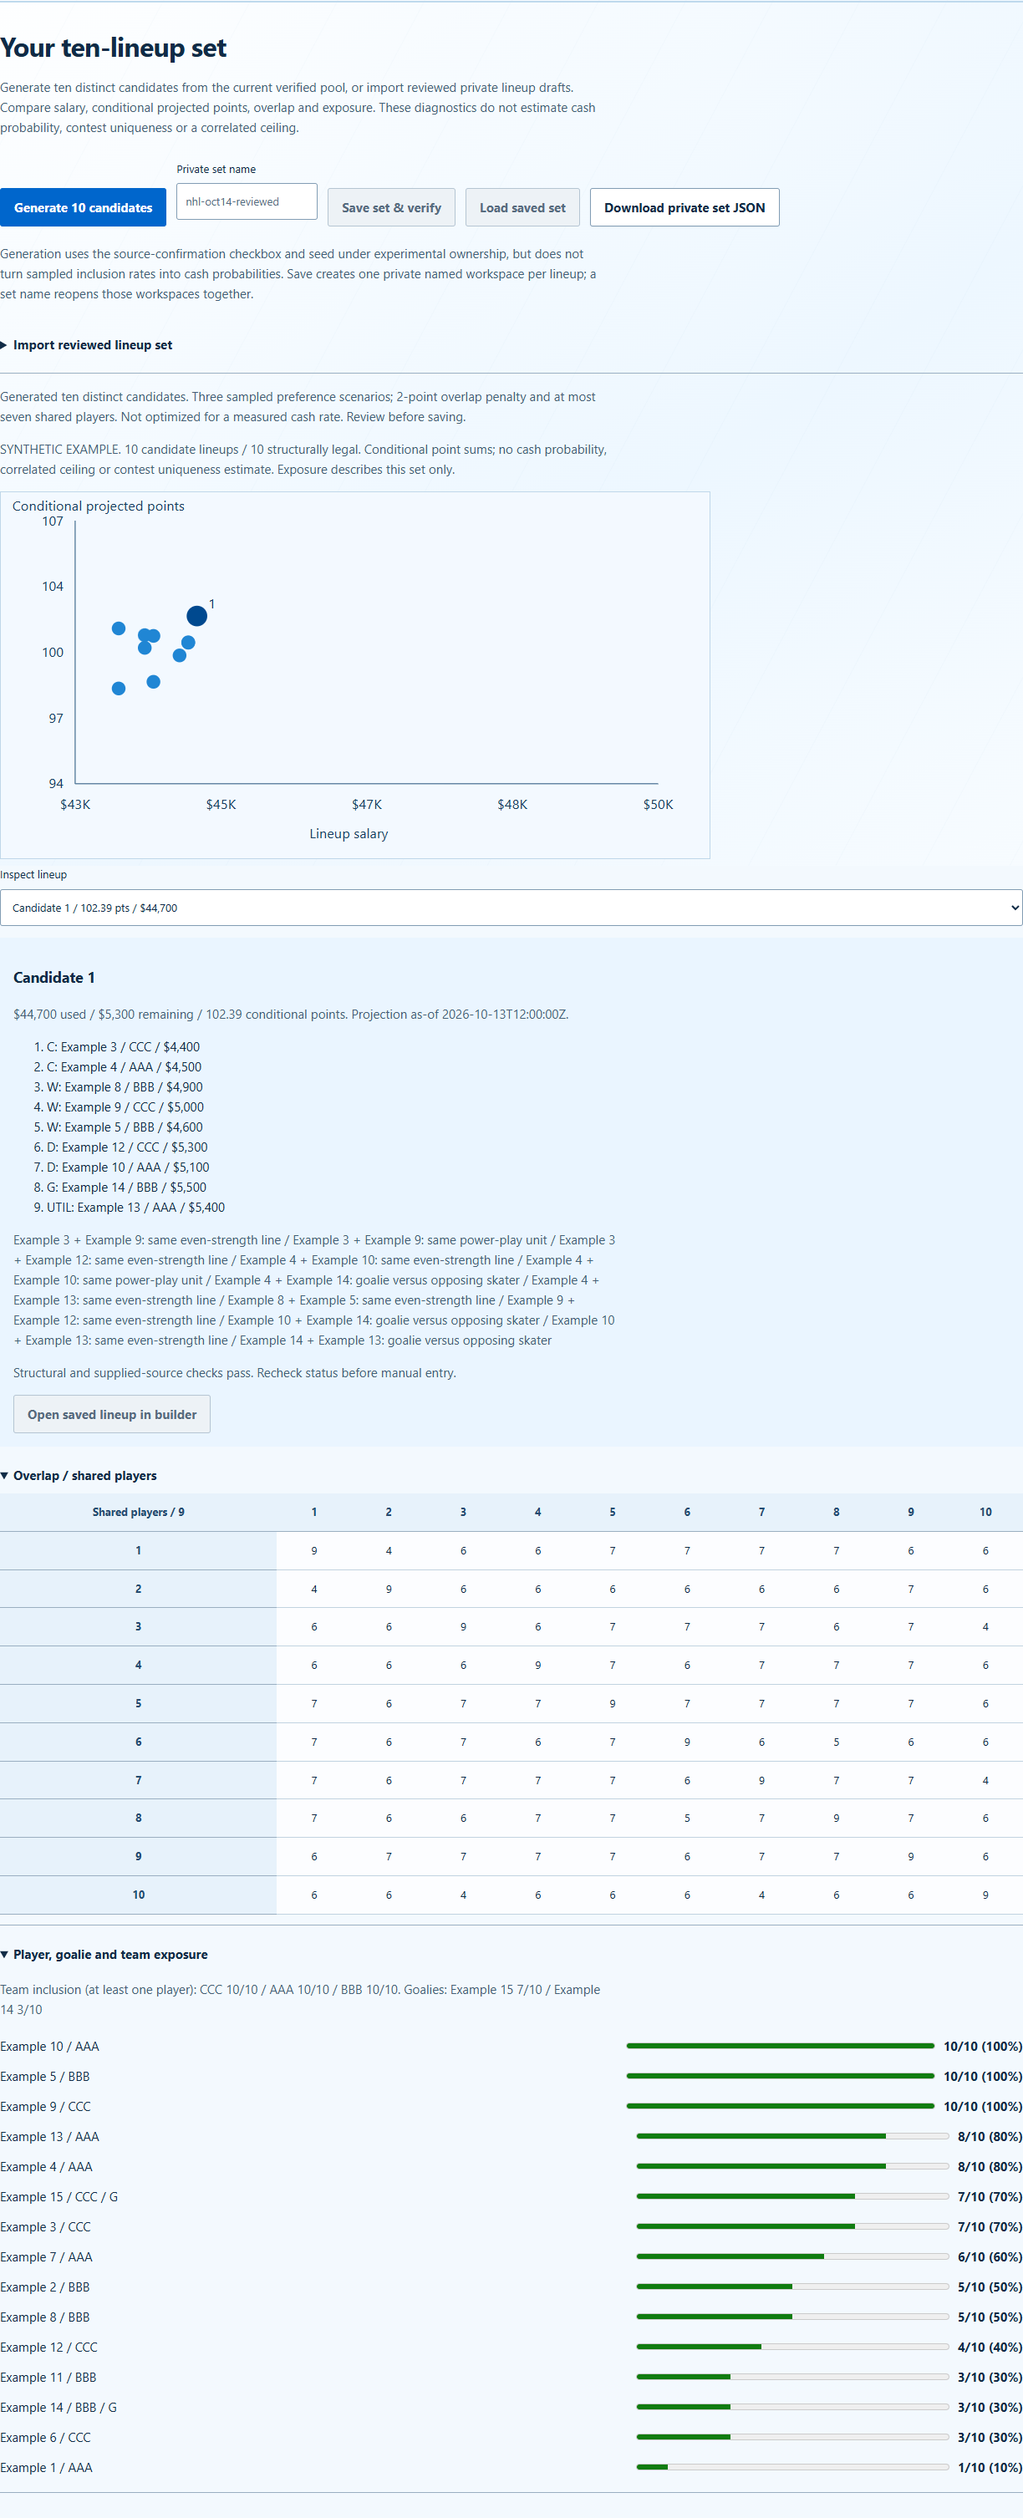
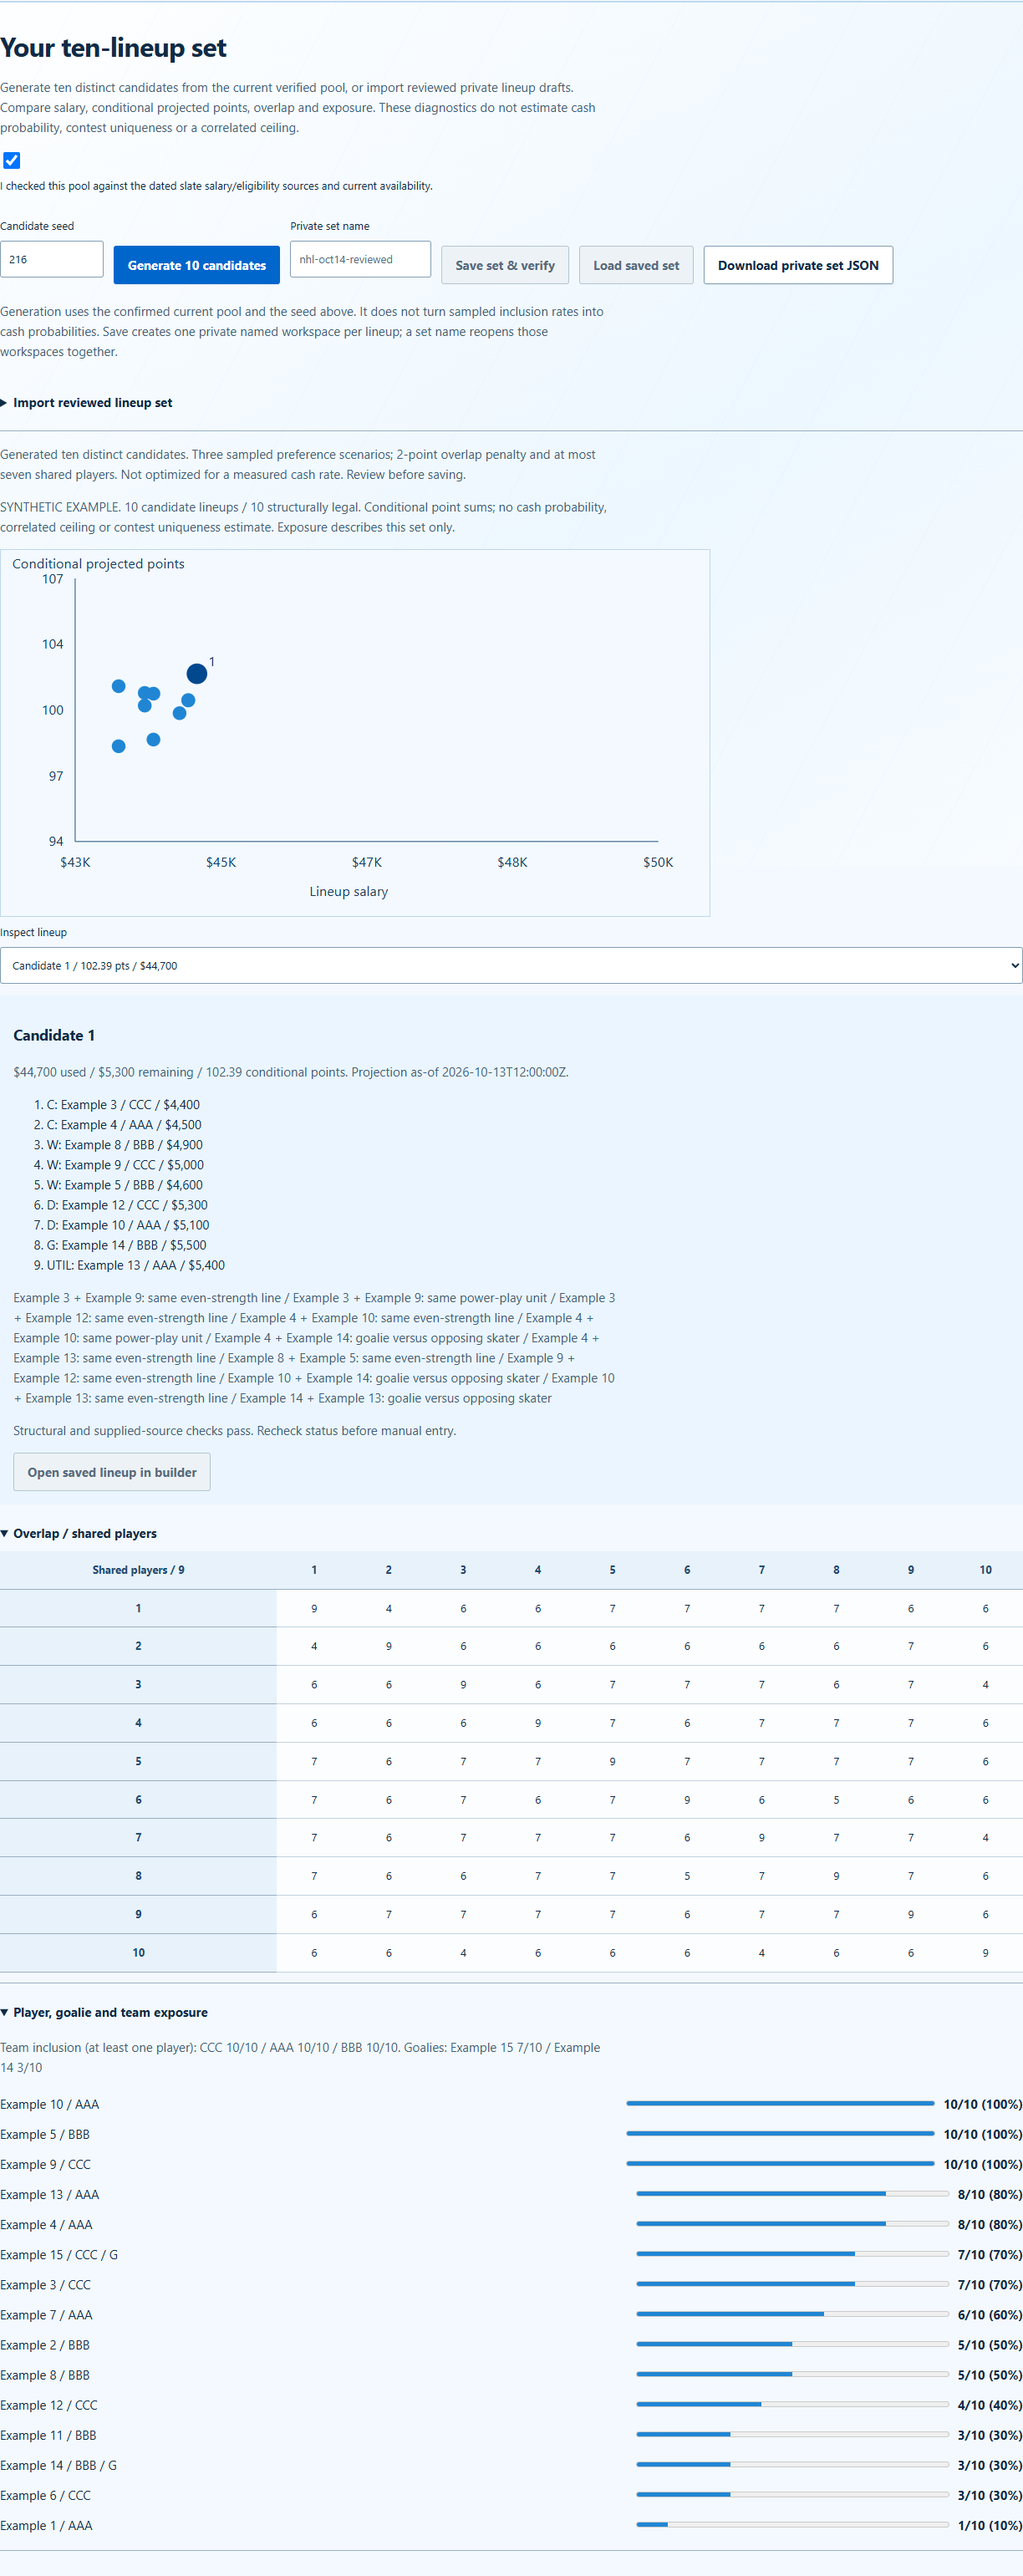
Keep lineup generation controls together

diff --git a/dfs-nhl.html b/dfs-nhl.html
@@ -16,6 +16,6 @@
 <details id="inspect" hidden><summary>Selected player: role, projection &amp; source</summary><h2 id="playerName"></h2><p id="playerMeta"></p><p id="flags" class="warning"></p><details><summary>Projection components &amp; provenance</summary><div id="components"></div><p id="events"></p><p id="historical"></p></details><details><summary>Role &amp; probability overrides</summary><p>Editable assumptions, not a live lineup feed. Blank means unknown. Probabilities are fractions from 0 to 1.</p><div class="formgrid" id="overrides"></div><div class="toolbar"><button id="apply">Apply timestamped override</button><button id="resetOverride" class="secondary">Clear override</button></div></details></details>
 <details><summary>Hockey structure &amp; exact-slate checks</summary><div id="checks"></div><p>Shared line/PP units describe dependence; they do not quantify correlation, win rate or contest fit. A goalie facing your skater creates opposing interests.</p></details>
 <details><summary>Import receipt &amp; scoring assumptions</summary><pre id="receipt"></pre><pre id="rules"></pre><p>The historical baseline averages each player's observed DK game scores and actual threshold bonuses over two completed seasons plus current pre-cutoff games. SD and variance describe game-to-game partial scores, not forecast certainty. Goalies use starts only, including pulled starts; wins and overtime losses are observed. Missing short-handed/shootout and goalie offensive components remain flagged. A manual skater minutes adjustment is a capped linear approximation; default is the unadjusted player mean.</p></details></div>
-<section id="lineupSet"><h2>Your ten-lineup set</h2><p>Generate ten distinct candidates from the current verified pool, or import reviewed private lineup drafts. Compare salary, conditional projected points, overlap and exposure. These diagnostics do not estimate cash probability, contest uniqueness or a correlated ceiling.</p><div class="toolbar"><button id="setGenerate">Generate 10 candidates</button><label>Private set name<input id="setName" maxlength="60" placeholder="nhl-oct14-reviewed"></label><button id="setSave">Save set &amp; verify</button><button id="setLoad" class="secondary">Load saved set</button><button id="setExport" class="secondary">Download private set JSON</button></div><p>Generation uses the source-confirmation checkbox and seed under experimental ownership, but does not turn sampled inclusion rates into cash probabilities. Save creates one private named workspace per lineup; a set name reopens those workspaces together.</p><details><summary>Import reviewed lineup set</summary><p>Paste version 1 JSON with a lineups array of {label, draft}. Each draft uses the documented NHL workspace schema. Import stays local until Save.</p><textarea id="setJson" rows="5" aria-label="Private NHL lineup set JSON" spellcheck="false"></textarea><button id="setImport" class="secondary">Review imported set</button></details><p id="setStatus" role="status">No lineup set loaded. Sign in to save or load private lineups.</p><div id="setResults" hidden><p id="setSummary"></p><svg id="setChart" viewBox="0 0 620 320" role="img" aria-label="Lineup salary versus conditional projected points"></svg><label>Inspect lineup<select id="setSelected"></select></label><div id="setDetail"></div><details open><summary>Overlap / shared players</summary><div class="scroll"><table id="setOverlap" aria-label="Shared players between candidate lineups"></table></div></details><details open><summary>Player, goalie and team exposure</summary><p id="setTeams"></p><div id="setExposure"></div></details></div></section><details id="projectionRecipe"><summary>Projection Recipe: repeat this analysis</summary><p id="recipeFreshness"></p><p>Run from the DataDawgs checkout with Node.js 22 or newer. This downloads the public source files and runs the tested generator locally; the browser does not execute a refresh.</p><pre><code>node tools/nhl-refresh.cjs --download --as-of 2026-10-13T20:21:00Z --output ../nhl-runs/2026-10-13</code></pre><p>Change the cutoff and use a new output folder for each run. The recipe uses 2025-2027 regular-season history, verified DK scoring, player-specific means and sample variance; goalies use starts. The identity seed is the bundled cohort, so new players and team changes need a reviewed seed update.</p><p>Outputs: projections.csv, model.json, audit.json, backtest.json, comparison.json and workbook-data.json. Raw inputs and their hashes are retained privately in the run folder. Comparison defaults to the bundled version; use <code>--previous path/to/model.json</code> for another run.</p><p>A completed refresh is not slate readiness. Salaries, DK eligibility, availability/start probabilities and missing scoring components still need review. No schedule, cloud save or deployment is triggered. <a href="docs/nhl-projection-recipe.md">Full recipe and checks</a>.</p></details>
+<section id="lineupSet"><h2>Your ten-lineup set</h2><p>Generate ten distinct candidates from the current verified pool, or import reviewed private lineup drafts. Compare salary, conditional projected points, overlap and exposure. These diagnostics do not estimate cash probability, contest uniqueness or a correlated ceiling.</p><label><input type="checkbox" id="setConfirm"> I checked this pool against the dated slate salary/eligibility sources and current availability.</label><div class="toolbar"><label>Candidate seed<input id="setSeed" type="number" min="0" max="4294967295" value="216"></label><button id="setGenerate">Generate 10 candidates</button><label>Private set name<input id="setName" maxlength="60" placeholder="nhl-oct14-reviewed"></label><button id="setSave">Save set &amp; verify</button><button id="setLoad" class="secondary">Load saved set</button><button id="setExport" class="secondary">Download private set JSON</button></div><p>Generation uses the confirmed current pool and the seed above. It does not turn sampled inclusion rates into cash probabilities. Save creates one private named workspace per lineup; a set name reopens those workspaces together.</p><details><summary>Import reviewed lineup set</summary><p>Paste version 1 JSON with a lineups array of {label, draft}. Each draft uses the documented NHL workspace schema. Import stays local until Save.</p><textarea id="setJson" rows="5" aria-label="Private NHL lineup set JSON" spellcheck="false"></textarea><button id="setImport" class="secondary">Review imported set</button></details><p id="setStatus" role="status">No lineup set loaded. Sign in to save or load private lineups.</p><div id="setResults" hidden><p id="setSummary"></p><svg id="setChart" viewBox="0 0 620 320" role="img" aria-label="Lineup salary versus conditional projected points"></svg><label>Inspect lineup<select id="setSelected"></select></label><div id="setDetail"></div><details open><summary>Overlap / shared players</summary><div class="scroll"><table id="setOverlap" aria-label="Shared players between candidate lineups"></table></div></details><details open><summary>Player, goalie and team exposure</summary><p id="setTeams"></p><div id="setExposure"></div></details></div></section><details id="projectionRecipe"><summary>Projection Recipe: repeat this analysis</summary><p id="recipeFreshness"></p><p>Run from the DataDawgs checkout with Node.js 22 or newer. This downloads the public source files and runs the tested generator locally; the browser does not execute a refresh.</p><pre><code>node tools/nhl-refresh.cjs --download --as-of 2026-10-13T20:21:00Z --output ../nhl-runs/2026-10-13</code></pre><p>Change the cutoff and use a new output folder for each run. The recipe uses 2025-2027 regular-season history, verified DK scoring, player-specific means and sample variance; goalies use starts. The identity seed is the bundled cohort, so new players and team changes need a reviewed seed update.</p><p>Outputs: projections.csv, model.json, audit.json, backtest.json, comparison.json and workbook-data.json. Raw inputs and their hashes are retained privately in the run folder. Comparison defaults to the bundled version; use <code>--previous path/to/model.json</code> for another run.</p><p>A completed refresh is not slate readiness. Salaries, DK eligibility, availability/start probabilities and missing scoring components still need review. No schedule, cloud save or deployment is triggered. <a href="docs/nhl-projection-recipe.md">Full recipe and checks</a>.</p></details>
 <section aria-label="Private saved lineups"><h2>Save &amp; reopen</h2><p><a href="signon.html?next=dfs-nhl.html">Sign in to Data Dawgs</a> with your existing account. Each name stores one lineup and its complete player pool. Use a new name for another lineup.</p><label>Lineup name<input id="workspaceId" maxlength="80" placeholder="nhl-oct14-lineup-1"></label><p id="savedState" role="status">Not saved</p><div class="toolbar"><button id="save">Save lineup</button><button id="load" class="secondary">Open lineup</button><button id="list" class="secondary">My saved lineups</button><button id="download" class="secondary">Download draft JSON</button></div><p id="cloud" role="status">Private account saves are explicit. Saved state is confirmed by read-back.</p><div id="saved"></div><details><summary>Connect an AI client</summary><p>Compatible clients can use the existing personal Data Dawgs MCP connection to list, read and update these same workspaces. No new access is granted here. <a href="docs/nhl-private-workspaces.md">API and MCP workflow</a>.</p></details></section>
 </main></body></html>

diff --git a/dfs-nhl-portfolio-ui.js b/dfs-nhl-portfolio-ui.js
@@ -1,9 +1,10 @@
 (function(){'use strict';
 const P=window.DDNHLPortfolio,N=window.DDNHL,A=window.DDNHLAccount,$=id=>document.getElementById(id);
-let set=null,selected=0,busy=false,epoch=0,refs=[];
+let set=null,selected=0,busy=false,epoch=0,refs=[],poolKey=null;
 const el=(tag,text,parent)=>{const e=document.createElement(tag);if(text!=null)e.textContent=text;if(parent)parent.append(e);return e;};
 const fmt=n=>n==null?'Unknown':n.toFixed(2),prefix=()=>{const s=$('setName').value.trim();if(!/^[A-Za-z0-9_-]{1,60}$/.test(s))throw Error('Set name: 1–60 letters, numbers, hyphens or underscores');return s;};
 function render(){
+ const current=window.DDNHLView?.();if(current){const key=N.ownershipKey(current);if(poolKey!==key){$('setConfirm').checked=false;poolKey=key;}}
  $('setSave').disabled=busy||!set||!A.signedIn()||set.lineups.some(x=>x.draft.synthetic);$('setLoad').disabled=busy||!A.signedIn();$('setGenerate').disabled=busy||!window.DDNHLView?.().players.length;$('setImport').disabled=busy;$('setExport').disabled=!set||busy;$('setResults').hidden=!set;if(!set)return;
  const diag=P.diagnose(set),row=diag.rows[selected]||diag.rows[0];selected=row.index;$('setSummary').textContent=(diag.rows.some(x=>x.synthetic)?'SYNTHETIC EXAMPLE. ':'')+diag.count+' candidate lineups / '+diag.rows.filter(x=>x.legal).length+' structurally legal. Conditional point sums; no cash probability, correlated ceiling or contest uniqueness estimate. Exposure describes this set only.';
  const select=$('setSelected');select.replaceChildren();diag.rows.forEach((r,i)=>{const o=el('option',r.label+' / '+fmt(r.points)+' pts / $'+r.salary.toLocaleString(),select);o.value=i;});select.value=selected;
@@ -25,7 +26,7 @@ async function action(fn){if(busy)return;busy=true;render();try{await fn();}catc
 function accept(value){set=P.readSet(value);refs=[];selected=0;render();}
 function route(name){const u=new URL(location.href);u.searchParams.set('set',name);history.replaceState(null,'',u);}
 $('setSelected').onchange=()=>{selected=Number($('setSelected').value);render();};
-$('setGenerate').onclick=()=>action(async()=>{accept(P.generate(window.DDNHLView(),{confirmedSlate:$('ownershipConfirm').checked,seed:Number($('ownershipSeed').value)}));$('setStatus').textContent='Generated ten distinct candidates. Three sampled preference scenarios; 2-point overlap penalty and at most seven shared players. Not optimized for a measured cash rate. Review before saving.';});
+$('setGenerate').onclick=()=>action(async()=>{accept(P.generate(window.DDNHLView(),{confirmedSlate:$('setConfirm').checked,seed:Number($('setSeed').value)}));$('setStatus').textContent='Generated ten distinct candidates. Three sampled preference scenarios; 2-point overlap penalty and at most seven shared players. Not optimized for a measured cash rate. Review before saving.';});
 $('setImport').onclick=()=>action(async()=>{accept(JSON.parse($('setJson').value));$('setJson').value='';$('setStatus').textContent='Imported locally. Nothing saved yet; review diagnostics and sources.';});
 $('setExport').onclick=()=>{const url=URL.createObjectURL(new Blob([JSON.stringify(set,null,2)],{type:'application/json'})),a=el('a');a.href=url;a.download='private-nhl-lineup-set.json';a.click();setTimeout(()=>URL.revokeObjectURL(url),1000);};
 $('setSave').onclick=()=>action(async()=>{const name=prefix(),snapshot=P.readSet(set),gen=epoch;if(snapshot.lineups.some(x=>x.draft.synthetic))throw Error('Synthetic examples cannot be saved as real lineups.');if(P.diagnose(snapshot).rows.some(x=>!x.legal))throw Error('Complete all nine legal roster slots before saving a set.');

diff --git a/sw.js b/sw.js
@@ -5,7 +5,7 @@
 // meant a JS-only fix never invalidated a phone's cache.
 // HTML is network-first (so deploys land immediately) with a cache fallback,
 // so a dead venue wifi can't take the draft down mid-auction.
-const VERSION = "7e9ce8de21";
+const VERSION = "c32f6910a0";
 // A cache revision also invalidates old images when only precached artwork changes.
 const CACHE = "dd-" + VERSION + "-public-v3";
 
